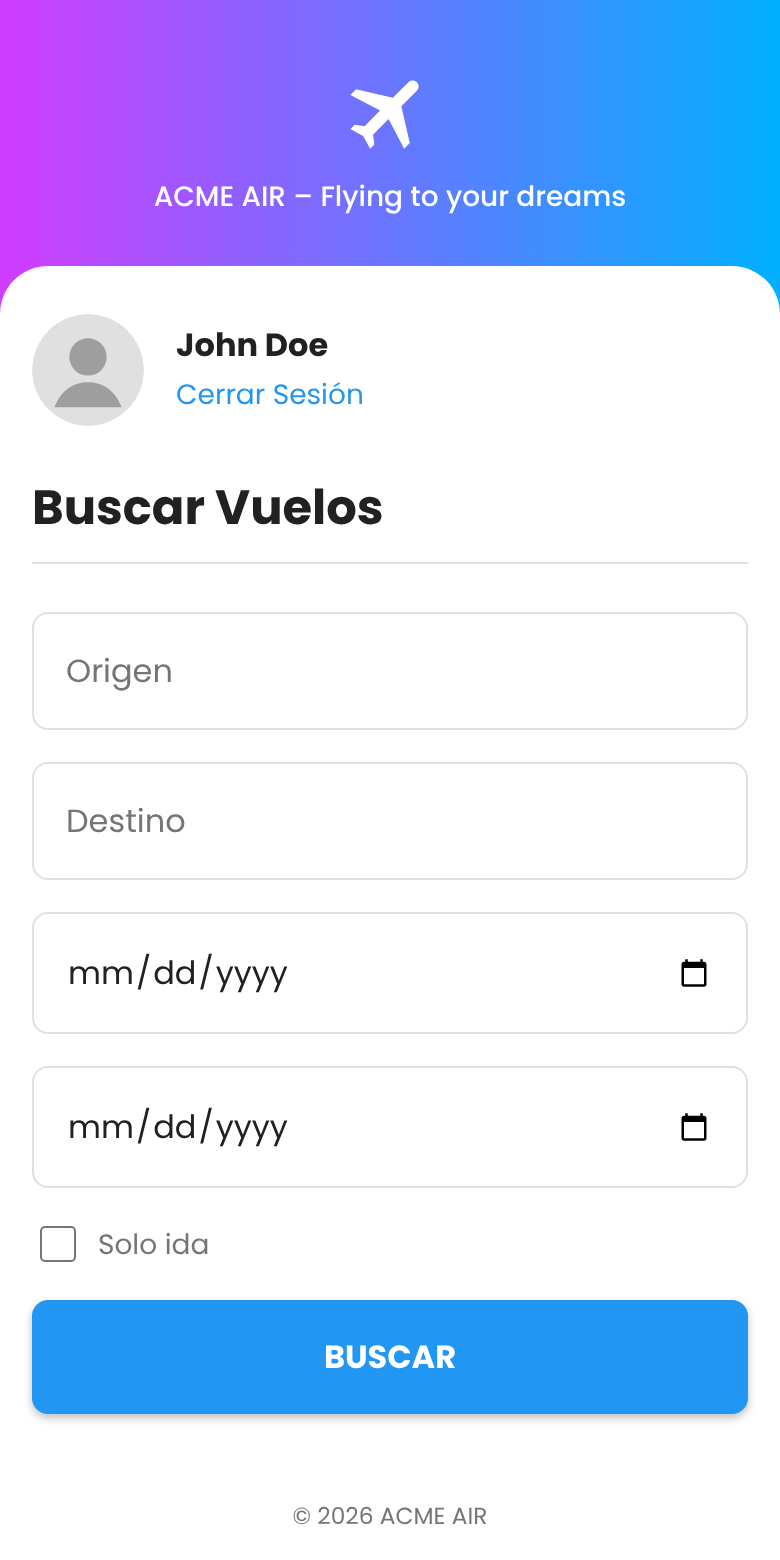
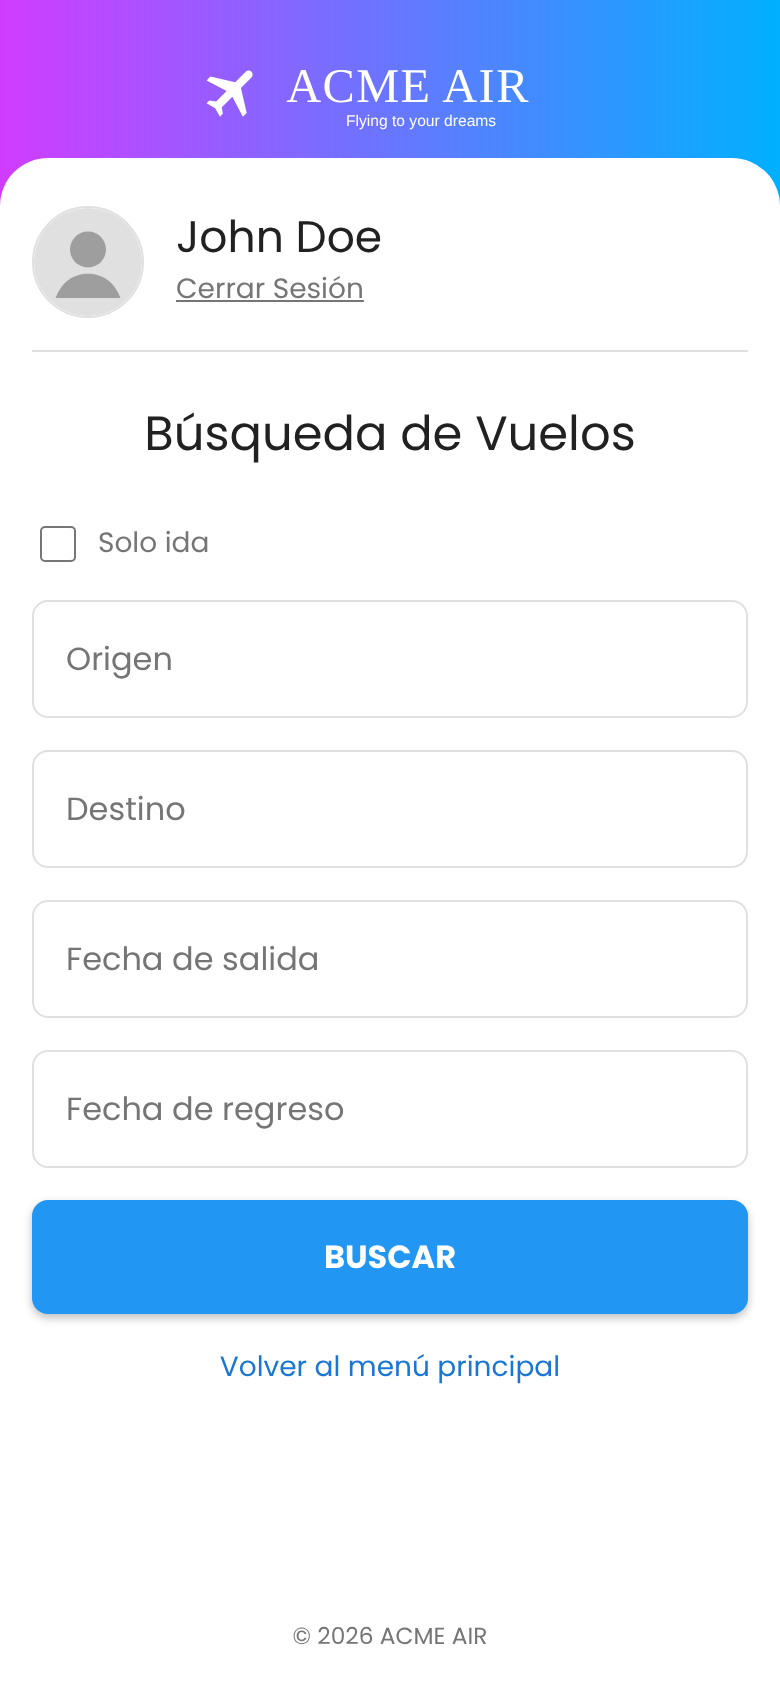
fix: correcciones de la revision del profesor

diff --git a/css/responsive.css b/css/responsive.css
@@ -19,11 +19,22 @@
   /* Sin ajustes: usa el mismo formulario fluido */
 
   /* -- menu (Sebastián) -- */
+  /* Sin ajustes: tarjetas en una columna */
+
   /* -- registro (Sebastián) -- */
+  /* Sin ajustes: usa el mismo formulario fluido */
+
   /* -- mis-vuelos (Sebastián) -- */
+  /* Sin ajustes: tarjetas en una columna */
+
   /* -- buscar-vuelos (Dainer) -- */
+  /* Sin ajustes: usa el mismo formulario fluido */
+
   /* -- vuelos (Dainer) -- */
+  /* Sin ajustes: tarjetas en una columna */
+
   /* -- checkin (Dainer) -- */
+  /* Sin ajustes: usa el mismo formulario fluido */
 }
 
 /* ===== 768px: tableta ===== */
@@ -43,15 +54,198 @@
     padding: var(--esp-5) var(--esp-4);
   }
 
+  .app-header__logo {
+    width: 14rem;
+  }
+
   /* -- crear-contraseña (Rodrigo) -- */
   /* Usa los mismos ajustes de la tarjeta de recuperar */
 
-  /* -- menu (Sebastián) -- */
+  /* -- menu (Sebastián): barra lateral + grid de tarjetas -- */
+  /* Según el enunciado, la vista de tableta y escritorio es la misma */
+  .pagina-menu {
+    flex-direction: row;
+    background-color: var(--color-fondo-suave);
+  }
+
+  .pagina-menu .app-header {
+    display: none;
+  }
+
+  .pagina-menu .sidebar {
+    display: flex;
+    flex-direction: column;
+    flex-shrink: 0;
+    position: sticky;
+    top: 0;
+    align-self: flex-start;
+    width: 16.25rem;
+    height: 100vh;
+    background-color: var(--color-fondo);
+    border-right: 1px solid var(--color-borde);
+  }
+
+  .sidebar__marca {
+    display: flex;
+    justify-content: center;
+    padding: var(--esp-3);
+    background: var(--degradado);
+  }
+
+  .sidebar__logo {
+    width: 11rem;
+    height: auto;
+  }
+
+  .sidebar__perfil {
+    display: flex;
+    flex-direction: column;
+    align-items: center;
+    gap: var(--esp-1);
+    padding: var(--esp-4) var(--esp-3);
+    text-align: center;
+  }
+
+  .sidebar__avatar {
+    width: 4.5rem;
+    height: 4.5rem;
+    margin-bottom: var(--esp-2);
+    border-radius: 50%;
+  }
+
+  .sidebar__saludo {
+    font-weight: var(--fw-negrita);
+  }
+
+  .sidebar__pregunta {
+    font-size: var(--fs-pequena);
+    color: var(--color-texto-suave);
+  }
+
+  .sidebar__nav {
+    display: flex;
+    flex-direction: column;
+    gap: var(--esp-1);
+    padding: var(--esp-3);
+  }
+
+  .sidebar__enlace {
+    display: flex;
+    align-items: center;
+    gap: var(--esp-3);
+    padding: var(--esp-2) var(--esp-3);
+    border-radius: var(--radio);
+    font-size: var(--fs-pequena);
+    font-weight: var(--fw-media);
+    color: var(--color-texto-suave);
+  }
+
+  .sidebar__enlace:hover {
+    background-color: var(--color-fondo-suave);
+    text-decoration: none;
+  }
+
+  .sidebar__icono {
+    width: 1.25rem;
+    height: 1.25rem;
+  }
+
+  .sidebar__salir {
+    margin-top: auto;
+    padding: var(--esp-3) var(--esp-4);
+    font-size: var(--fs-pequena);
+    color: var(--color-texto-suave);
+  }
+
+  .pagina-menu .pagina {
+    flex: 1;
+  }
+
+  body.pagina-menu .app-card {
+    flex: 1;
+    max-width: none;
+    margin: 0;
+    padding: var(--esp-5);
+    background-color: transparent;
+    border-radius: 0;
+    box-shadow: none;
+  }
+
+  /* El saludo pasa a la barra lateral; el h1 queda solo para lectores de pantalla */
+  .pagina-menu .saludo {
+    position: absolute;
+    width: 1px;
+    height: 1px;
+    margin: -1px;
+    overflow: hidden;
+    clip: rect(0, 0, 0, 0);
+  }
+
+  .pagina-menu .lista-tarjetas {
+    grid-template-columns: repeat(2, 1fr);
+    gap: var(--esp-4);
+  }
+
+  .pagina-menu .tarjeta {
+    flex-direction: column;
+    justify-content: center;
+    gap: var(--esp-2);
+    padding: var(--esp-5) var(--esp-3);
+    border: none;
+    text-align: center;
+  }
+
+  .pagina-menu .tarjeta:last-child {
+    grid-column: 1 / -1;
+  }
+
+  .pagina-menu .tarjeta__icono {
+    box-sizing: content-box;
+    padding: var(--esp-3);
+    background-color: var(--color-fondo-suave);
+    border-radius: 50%;
+  }
+
+  .pagina-menu .tarjeta__cuerpo {
+    flex: 0 1 auto;
+    align-items: center;
+  }
+
+  .pagina-menu .tarjeta__texto {
+    font-size: 1.125rem;
+    font-weight: var(--fw-negrita);
+  }
+
+  .pagina-menu .tarjeta__descripcion {
+    display: block;
+  }
+
+  .pagina-menu .tarjeta__chevron {
+    display: none;
+  }
+
+  .pagina-menu .app-footer {
+    background-color: transparent;
+  }
+
+
   /* -- registro (Sebastián) -- */
+  /* Sin ajustes: el formulario se queda en su ancho máximo */
+
   /* -- mis-vuelos (Sebastián) -- */
+  /* Tarjetas de vuelo en dos columnas */
+  .lista-vuelos {
+    grid-template-columns: repeat(2, 1fr);
+  }
+
   /* -- buscar-vuelos (Dainer) -- */
+  /* Sin ajustes: el formulario se queda en su ancho máximo */
+
   /* -- vuelos (Dainer) -- */
+  /* Usa las dos columnas de .lista-vuelos definidas arriba */
+
   /* -- checkin (Dainer) -- */
+  /* Sin ajustes: el formulario se queda en su ancho máximo */
 }
 
 /* ===== 1024px: escritorio (vista centrada con padding lateral) ===== */
@@ -84,10 +278,21 @@
   /* -- crear-contraseña (Rodrigo) -- */
   /* Usa los mismos ajustes de la tarjeta de recuperar */
 
-  /* -- menu (Sebastián): barra lateral + grid de tarjetas -- */
+  /* -- menu (Sebastián) -- */
+  /* Sin ajustes: la barra lateral y el grid empiezan en tableta (768 px) */
+
   /* -- registro (Sebastián) -- */
+  /* Sin ajustes: tarjeta centrada (ver recuperar) */
+
   /* -- mis-vuelos (Sebastián) -- */
+  /* Sin ajustes: dos columnas desde tableta */
+
   /* -- buscar-vuelos (Dainer) -- */
+  /* Sin ajustes: tarjeta centrada (ver recuperar) */
+
   /* -- vuelos (Dainer) -- */
+  /* Sin ajustes: dos columnas desde tableta */
+
   /* -- checkin (Dainer) -- */
+  /* Sin ajustes: tarjeta centrada (ver recuperar) */
 }

diff --git a/buscar-vuelos.html b/buscar-vuelos.html
@@ -3,8 +3,9 @@
 <head>
   <meta charset="UTF-8">
   <meta name="viewport" content="width=device-width, initial-scale=1">
-  <title>Buscar vuelos | ACME AIR</title>
+  <title>Búsqueda de vuelos | ACME AIR</title>
   <meta name="description" content="Búsqueda de vuelos en ACME AIR">
+  <link rel="icon" href="imagen/favicon.svg" type="image/svg+xml">
   <link rel="preconnect" href="https://fonts.googleapis.com">
   <link rel="preconnect" href="https://fonts.gstatic.com" crossorigin>
   <link href="https://fonts.googleapis.com/css2?family=Poppins:wght@400;500;600&display=swap" rel="stylesheet">
@@ -15,8 +16,7 @@
 </head>
 <body>
   <header class="app-header">
-    <img class="app-header__icono" src="imagen/iconos/avion-blanco.svg" alt="">
-    <p class="app-header__marca">ACME AIR – Flying to your dreams</p>
+    <img class="app-header__logo" src="imagen/logo-blanco.svg" alt="ACME AIR - Flying to your dreams">
   </header>
 
   <main class="app-card">
@@ -28,8 +28,12 @@
       </div>
     </div>
 
-    <h1 class="titulo-divisor">Buscar Vuelos</h1>
+    <h1>Búsqueda de Vuelos</h1>
     <form class="form" action="vuelos.html" method="get">
+      <label class="check">
+        <input class="check__input" type="checkbox" name="solo-ida">
+        <span>Solo ida</span>
+      </label>
       <div class="campo">
         <label class="sr-only" for="origen">Origen</label>
         <input class="campo__input" type="text" id="origen" name="origen" placeholder="Origen" autocomplete="off">
@@ -40,17 +44,16 @@
       </div>
       <div class="campo">
         <label class="sr-only" for="fecha-salida">Fecha de salida</label>
-        <input class="campo__input" type="date" id="fecha-salida" name="fecha-salida" title="Fecha de salida">
+        <input class="campo__input" type="text" id="fecha-salida" name="fecha-salida" placeholder="Fecha de salida" autocomplete="off">
       </div>
       <div class="campo">
         <label class="sr-only" for="fecha-regreso">Fecha de regreso</label>
-        <input class="campo__input" type="date" id="fecha-regreso" name="fecha-regreso" title="Fecha de regreso">
+        <input class="campo__input" type="text" id="fecha-regreso" name="fecha-regreso" placeholder="Fecha de regreso" autocomplete="off">
       </div>
-      <label class="check">
-        <input class="check__input" type="checkbox" name="solo-ida">
-        <span>Solo ida</span>
-      </label>
       <button class="btn btn-primario" type="submit">Buscar</button>
+      <p class="form__enlaces">
+        <a href="menu.html">Volver al menú principal</a>
+      </p>
     </form>
   </main>
 

diff --git a/README.md b/README.md
@@ -23,30 +23,43 @@ Ofrecer una interfaz limpia, intuitiva y responsiva, con identidad visual cohere
 | Vista | Archivo | Va hacia |
 | --- | --- | --- |
 | Iniciar sesión | `index.html` | Ingresar → Menú · Crear cuenta → Registro · ¿Olvidaste tu contraseña? → Recuperar contraseña |
-| Menú principal | `menu.html` | Buscar vuelos · Registrarse (check-in) · Mis vuelos · Cerrar sesión → Iniciar sesión |
+| Menú principal | `menu.html` | Buscar vuelos · Check In · Mis vuelos · Cerrar sesión → Iniciar sesión |
 | Registro | `registro.html` | Guardar → Crear contraseña |
 | Recuperar contraseña | `recuperar.html` | Enviar → Crear contraseña |
 | Crear contraseña | `crear-contraseña.html` | Guardar → Menú |
-| Búsqueda de vuelos | `buscar-vuelos.html` | Buscar → Vuelos disponibles |
+| Búsqueda de vuelos | `buscar-vuelos.html` | Buscar → Vuelos disponibles · Volver al menú principal → Menú |
 | Vuelos disponibles | `vuelos.html` | Volver → Menú |
-| Registro de entrada | `checkin.html` | Guardar → Menú |
+| Check In | `checkin.html` | Guardar → Menú |
 | Mis vuelos | `mis-vuelos.html` | Volver → Menú |
 
 
-## Capturas de las vistas
+## Capturas de las vistas: mockup vs resultado
 
-| Iniciar sesión | Menú principal | Registro |
+Cada vista se compara cara a cara con el mockup del enunciado para revisar márgenes, colores, bordes, redondeos e iconografía. La iconografía es propia, porque el mockup es una guía y no incluye las imágenes originales.
+
+### Móvil (320 px – 767 px)
+
+| Vista | Mockup | Resultado (HTML + CSS) |
 | --- | --- | --- |
-| ![Iniciar sesión](docs/capturas/01-login.png) | ![Menú principal](docs/capturas/02-menu.png) | ![Registro](docs/capturas/03-registro.png) |
+| Iniciar sesión | <img src="docs/mockups/01-login.png" alt="Mockup Iniciar sesión" width="220"> | <img src="docs/capturas/01-login.png" alt="Resultado Iniciar sesión" width="220"> |
+| Menú principal | <img src="docs/mockups/02-menu.png" alt="Mockup Menú principal" width="220"> | <img src="docs/capturas/02-menu.png" alt="Resultado Menú principal" width="220"> |
+| Registro | <img src="docs/mockups/03-registro.png" alt="Mockup Registro" width="220"> | <img src="docs/capturas/03-registro.png" alt="Resultado Registro" width="220"> |
+| Recuperar contraseña | <img src="docs/mockups/04-recuperar-contrasena.png" alt="Mockup Recuperar contraseña" width="220"> | <img src="docs/capturas/04-recuperar-contrasena.png" alt="Resultado Recuperar contraseña" width="220"> |
+| Crear contraseña | <img src="docs/mockups/05-crear-contrasena.png" alt="Mockup Crear contraseña" width="220"> | <img src="docs/capturas/05-crear-contrasena.png" alt="Resultado Crear contraseña" width="220"> |
+| Búsqueda de vuelos | <img src="docs/mockups/06-buscar-vuelos.png" alt="Mockup Búsqueda de vuelos" width="220"> | <img src="docs/capturas/06-buscar-vuelos.png" alt="Resultado Búsqueda de vuelos" width="220"> |
+| Vuelos disponibles | <img src="docs/mockups/07-vuelos-disponibles.png" alt="Mockup Vuelos disponibles" width="220"> | <img src="docs/capturas/07-vuelos-disponibles.png" alt="Resultado Vuelos disponibles" width="220"> |
+| Check In | <img src="docs/mockups/08-check-in.png" alt="Mockup Check In" width="220"> | <img src="docs/capturas/08-registro-de-entrada.png" alt="Resultado Check In" width="220"> |
+| Mis vuelos | <img src="docs/mockups/09-mis-vuelos.png" alt="Mockup Mis vuelos" width="220"> | <img src="docs/capturas/09-mis-vuelos.png" alt="Resultado Mis vuelos" width="220"> |
 
-| Recuperar contraseña | Crear contraseña | Búsqueda de vuelos |
+### Tableta y escritorio (desde 768 px)
+
+Según el enunciado, el menú principal usa en tableta y escritorio una barra lateral y una cuadrícula de tarjetas.
+
+| Mockup | Resultado en tableta (768 px) | Resultado en escritorio (1280 px) |
 | --- | --- | --- |
-| ![Recuperar contraseña](docs/capturas/04-recuperar-contrasena.png) | ![Crear contraseña](docs/capturas/05-crear-contrasena.png) | ![Búsqueda de vuelos](docs/capturas/06-buscar-vuelos.png) |
+| <img src="docs/mockups/10-menu-tablet-escritorio.png" alt="Mockup menú tableta y escritorio" width="300"> | <img src="docs/capturas/10-menu-tablet.png" alt="Menú en tableta" width="230"> | <img src="docs/capturas/11-menu-escritorio.png" alt="Menú en escritorio" width="300"> |
 
-| Vuelos disponibles | Registro de entrada | Mis vuelos |
-| --- | --- | --- |
-| ![Vuelos disponibles](docs/capturas/07-vuelos-disponibles.png) | ![Registro de entrada](docs/capturas/08-registro-de-entrada.png) | ![Mis vuelos](docs/capturas/09-mis-vuelos.png) |
-
+> **Nota:** la navegación es simulada, sin JavaScript (el enunciado no lo permite). Los datos que se muestran son fijos, como en el mockup; para una demostración coherente, inicia sesión con `johndoe@gmail.com`.
 
 ## Estructura del proyecto
 
@@ -66,6 +79,9 @@ acme-air-html-css/
 │   ├── forms.css
 │   ├── layout.css
 │   └── responsive.css
+├── docs/
+│   ├── mockups/      (mockups del enunciado)
+│   └── capturas/     (resultado en HTML + CSS)
 └── imagen/
     ├── logo.png
     ├── iconos/
